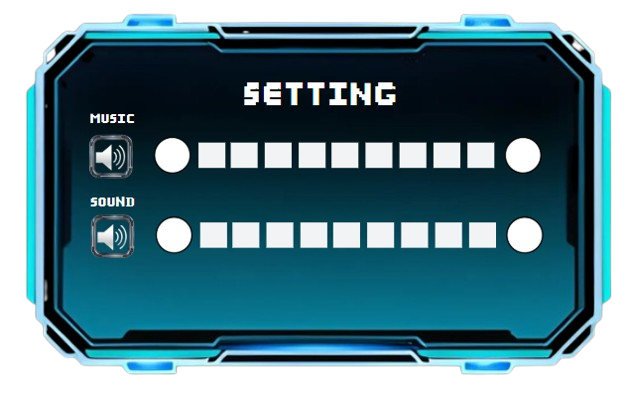
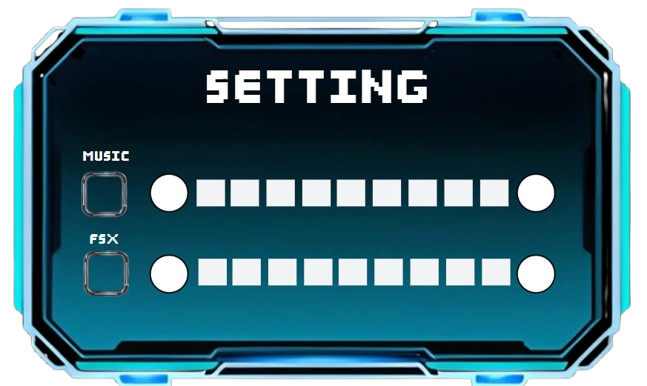
ád

diff --git a/core/src/main/java/com/main/Setting.java b/core/src/main/java/com/main/Setting.java
@@ -31,7 +31,7 @@ public class Setting {
         //load ảnh nền màn hình
         NenManHinh = new Texture("Stuffs/anhnenSetting.png");
         //Load ảnh tắt âm thanh
-        TatAmLuong = new Texture("Stuffs/Buttons/thanhGiam.png");
+        TatAmLuong = new Texture("Stuffs/Buttons/TatAmThanh.png");
         //Load ảnh các nút
         btnTang = new Texture("Stuffs/Buttons/thanhTang.png");
         btnTang1Hitbox = new Rectangle(440, 225, btnTang.getWidth() / 9, btnTang.getHeight() / 9);
